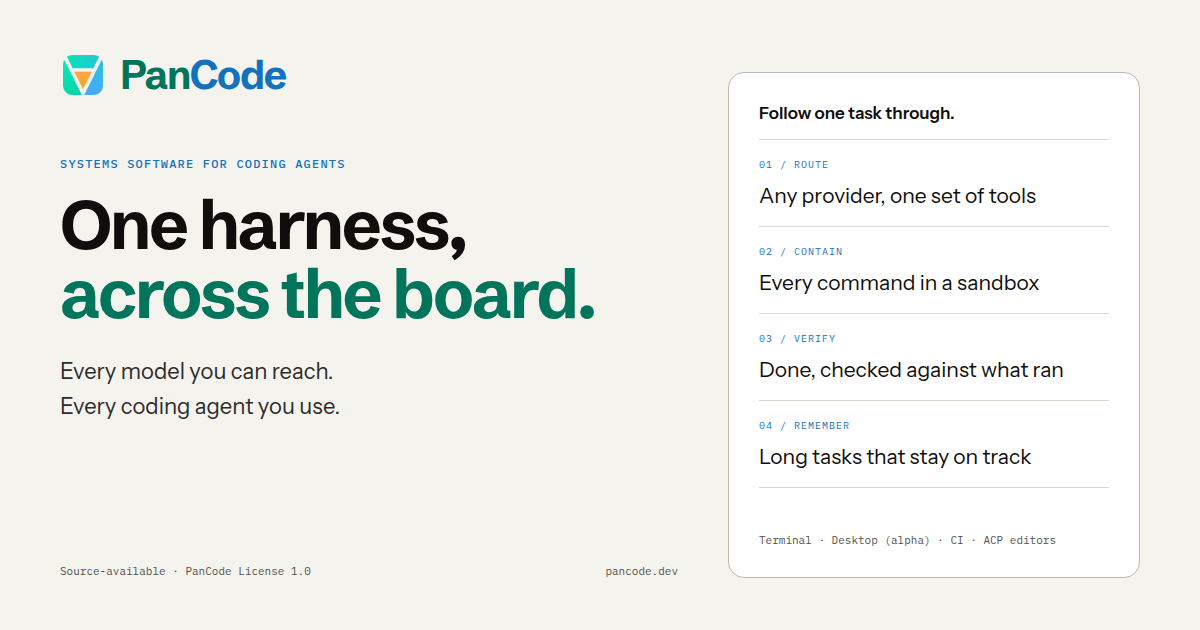
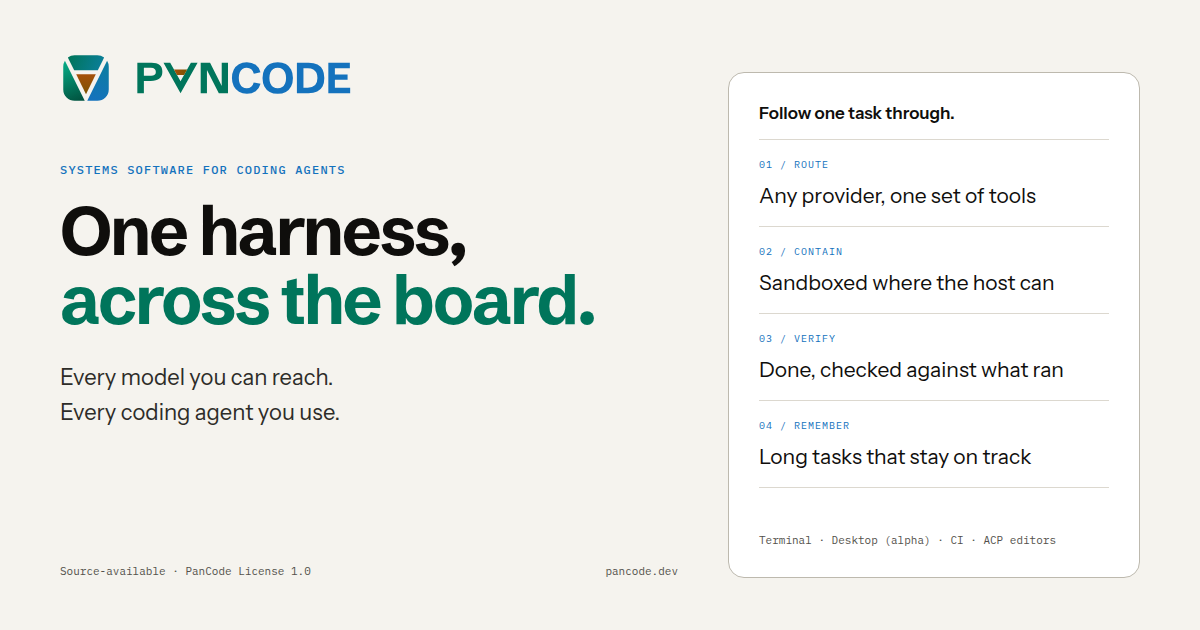
fix(site): grade the stones in drawings, put the display name on the cards and qualify the sandbox line
Review of the art package. Stones from 32 px in the schematic drawings and
the bar of the display name take the graded facets, through gradients
whose ids carry the drawing's file name; the 28 px lockup stays flat and
carries no id, so header and footer never collide. DESIGN.md states the
fill rule. The four social cards use the display name with the light cut
on paper, say commands are sandboxed where the host can, and their alt
text seeds describe the current card.

diff --git a/site/cards/square-light.html b/site/cards/square-light.html
@@ -1,3 +1,3 @@
 <!doctype html>
 <html lang="en" data-theme="light"><head><meta charset="utf-8"><meta name="robots" content="noindex"><title>PanCode social preview</title><link rel="stylesheet" href="../css/cards.css"></head>
-<body class="square"><main><div class="brand"><img src="../assets/brand/pancode-mark.webp" width="46" height="46" alt=""><span class="pan">Pan</span><span class="code">Code</span></div><p class="kicker">SYSTEMS SOFTWARE FOR CODING AGENTS</p><h1>One harness,<br><em>across the board.</em></h1><p class="promise">Every model you can reach.<br>Every coding agent you use.</p><footer><span>Source-available · PanCode License 1.0</span><span>pancode.dev</span></footer></main><aside aria-label="What PanCode does"><header>Follow one task through.</header><ol><li><small>01 / ROUTE</small>Any provider, one set of tools</li><li><small>02 / CONTAIN</small>Every command in a sandbox</li><li><small>03 / VERIFY</small>Done, checked against what ran</li><li><small>04 / REMEMBER</small>Long tasks that stay on track</li></ol><p>Terminal · Desktop (alpha) · CI · ACP editors</p></aside></body></html>
+<body class="square"><main><div class="brand"><img class="mark" src="../../assets/brand/pancode-mark-light.svg" width="52" height="52" alt=""><img class="name" src="../../assets/brand/pancode-display-light.svg" width="230" height="42" alt="PanCode"></div><p class="kicker">SYSTEMS SOFTWARE FOR CODING AGENTS</p><h1>One harness,<br><em>across the board.</em></h1><p class="promise">Every model you can reach.<br>Every coding agent you use.</p><footer><span>Source-available · PanCode License 1.0</span><span>pancode.dev</span></footer></main><aside aria-label="What PanCode does"><header>Follow one task through.</header><ol><li><small>01 / ROUTE</small>Any provider, one set of tools</li><li><small>02 / CONTAIN</small>Sandboxed where the host can</li><li><small>03 / VERIFY</small>Done, checked against what ran</li><li><small>04 / REMEMBER</small>Long tasks that stay on track</li></ol><p>Terminal · Desktop (alpha) · CI · ACP editors</p></aside></body></html>

diff --git a/site/cards/link-light.html b/site/cards/link-light.html
@@ -1,3 +1,3 @@
 <!doctype html>
 <html lang="en" data-theme="light"><head><meta charset="utf-8"><meta name="robots" content="noindex"><title>PanCode social preview</title><link rel="stylesheet" href="../css/cards.css"></head>
-<body class="link"><main><div class="brand"><img src="../assets/brand/pancode-mark.webp" width="46" height="46" alt=""><span class="pan">Pan</span><span class="code">Code</span></div><p class="kicker">SYSTEMS SOFTWARE FOR CODING AGENTS</p><h1>One harness,<br><em>across the board.</em></h1><p class="promise">Every model you can reach.<br>Every coding agent you use.</p><footer><span>Source-available · PanCode License 1.0</span><span>pancode.dev</span></footer></main><aside aria-label="What PanCode does"><header>Follow one task through.</header><ol><li><small>01 / ROUTE</small>Any provider, one set of tools</li><li><small>02 / CONTAIN</small>Every command in a sandbox</li><li><small>03 / VERIFY</small>Done, checked against what ran</li><li><small>04 / REMEMBER</small>Long tasks that stay on track</li></ol><p>Terminal · Desktop (alpha) · CI · ACP editors</p></aside></body></html>
+<body class="link"><main><div class="brand"><img class="mark" src="../../assets/brand/pancode-mark-light.svg" width="52" height="52" alt=""><img class="name" src="../../assets/brand/pancode-display-light.svg" width="230" height="42" alt="PanCode"></div><p class="kicker">SYSTEMS SOFTWARE FOR CODING AGENTS</p><h1>One harness,<br><em>across the board.</em></h1><p class="promise">Every model you can reach.<br>Every coding agent you use.</p><footer><span>Source-available · PanCode License 1.0</span><span>pancode.dev</span></footer></main><aside aria-label="What PanCode does"><header>Follow one task through.</header><ol><li><small>01 / ROUTE</small>Any provider, one set of tools</li><li><small>02 / CONTAIN</small>Sandboxed where the host can</li><li><small>03 / VERIFY</small>Done, checked against what ran</li><li><small>04 / REMEMBER</small>Long tasks that stay on track</li></ol><p>Terminal · Desktop (alpha) · CI · ACP editors</p></aside></body></html>

diff --git a/site/cards/square.html b/site/cards/square.html
@@ -1,3 +1,3 @@
 <!doctype html>
 <html lang="en" data-theme="dark"><head><meta charset="utf-8"><meta name="robots" content="noindex"><title>PanCode social preview</title><link rel="stylesheet" href="../css/cards.css"></head>
-<body class="square"><main><div class="brand"><img src="../assets/brand/pancode-mark.webp" width="46" height="46" alt=""><span class="pan">Pan</span><span class="code">Code</span></div><p class="kicker">SYSTEMS SOFTWARE FOR CODING AGENTS</p><h1>One harness,<br><em>across the board.</em></h1><p class="promise">Every model you can reach.<br>Every coding agent you use.</p><footer><span>Source-available · PanCode License 1.0</span><span>pancode.dev</span></footer></main><aside aria-label="What PanCode does"><header>Follow one task through.</header><ol><li><small>01 / ROUTE</small>Any provider, one set of tools</li><li><small>02 / CONTAIN</small>Every command in a sandbox</li><li><small>03 / VERIFY</small>Done, checked against what ran</li><li><small>04 / REMEMBER</small>Long tasks that stay on track</li></ol><p>Terminal · Desktop (alpha) · CI · ACP editors</p></aside></body></html>
+<body class="square"><main><div class="brand"><img class="mark" src="../../assets/brand/pancode-mark.svg" width="52" height="52" alt=""><img class="name" src="../../assets/brand/pancode-display.svg" width="230" height="42" alt="PanCode"></div><p class="kicker">SYSTEMS SOFTWARE FOR CODING AGENTS</p><h1>One harness,<br><em>across the board.</em></h1><p class="promise">Every model you can reach.<br>Every coding agent you use.</p><footer><span>Source-available · PanCode License 1.0</span><span>pancode.dev</span></footer></main><aside aria-label="What PanCode does"><header>Follow one task through.</header><ol><li><small>01 / ROUTE</small>Any provider, one set of tools</li><li><small>02 / CONTAIN</small>Sandboxed where the host can</li><li><small>03 / VERIFY</small>Done, checked against what ran</li><li><small>04 / REMEMBER</small>Long tasks that stay on track</li></ol><p>Terminal · Desktop (alpha) · CI · ACP editors</p></aside></body></html>

diff --git a/site/cards/link.html b/site/cards/link.html
@@ -1,3 +1,3 @@
 <!doctype html>
 <html lang="en" data-theme="dark"><head><meta charset="utf-8"><meta name="robots" content="noindex"><title>PanCode social preview</title><link rel="stylesheet" href="../css/cards.css"></head>
-<body class="link"><main><div class="brand"><img src="../assets/brand/pancode-mark.webp" width="46" height="46" alt=""><span class="pan">Pan</span><span class="code">Code</span></div><p class="kicker">SYSTEMS SOFTWARE FOR CODING AGENTS</p><h1>One harness,<br><em>across the board.</em></h1><p class="promise">Every model you can reach.<br>Every coding agent you use.</p><footer><span>Source-available · PanCode License 1.0</span><span>pancode.dev</span></footer></main><aside aria-label="What PanCode does"><header>Follow one task through.</header><ol><li><small>01 / ROUTE</small>Any provider, one set of tools</li><li><small>02 / CONTAIN</small>Every command in a sandbox</li><li><small>03 / VERIFY</small>Done, checked against what ran</li><li><small>04 / REMEMBER</small>Long tasks that stay on track</li></ol><p>Terminal · Desktop (alpha) · CI · ACP editors</p></aside></body></html>
+<body class="link"><main><div class="brand"><img class="mark" src="../../assets/brand/pancode-mark.svg" width="52" height="52" alt=""><img class="name" src="../../assets/brand/pancode-display.svg" width="230" height="42" alt="PanCode"></div><p class="kicker">SYSTEMS SOFTWARE FOR CODING AGENTS</p><h1>One harness,<br><em>across the board.</em></h1><p class="promise">Every model you can reach.<br>Every coding agent you use.</p><footer><span>Source-available · PanCode License 1.0</span><span>pancode.dev</span></footer></main><aside aria-label="What PanCode does"><header>Follow one task through.</header><ol><li><small>01 / ROUTE</small>Any provider, one set of tools</li><li><small>02 / CONTAIN</small>Sandboxed where the host can</li><li><small>03 / VERIFY</small>Done, checked against what ran</li><li><small>04 / REMEMBER</small>Long tasks that stay on track</li></ol><p>Terminal · Desktop (alpha) · CI · ACP editors</p></aside></body></html>

diff --git a/site/css/art.css b/site/css/art.css
@@ -1,6 +1,8 @@
 /* SPDX-License-Identifier: LicenseRef-PanCode-1.0 */
 /* SPDX-FileCopyrightText: 2026 Anthony Kougkas */
-/* The mark at interface sizes: the full cut of assets/brand/pancode-mark.svg in flat colour. */
+/* Below 32 px the mark is flat: mark.svg is the full cut in flat colour for the 28 px lockup. From 32 px the
+   stone inside a drawing is graded through gradients whose ids start with the drawing's file name, so two
+   drawings on one page never share an id. mark.svg carries no id and may be inlined any number of times. */
 .mark-left,
 .mark-top {
 	fill: var(--pancode-green400);
@@ -20,6 +22,49 @@ html[data-theme="light"] .mark-right {
 }
 html[data-theme="light"] .mark-point {
 	fill: var(--pancode-orange700);
+}
+.mark-stop-left-a {
+	stop-color: var(--pancode-green300);
+}
+.mark-stop-left-b {
+	stop-color: var(--pancode-green500);
+}
+.mark-stop-top-a {
+	stop-color: var(--pancode-green400);
+}
+.mark-stop-top-b,
+.mark-stop-right-a {
+	stop-color: var(--pancode-teal400);
+}
+.mark-stop-right-b {
+	stop-color: var(--pancode-azure400);
+}
+.mark-stop-point-a {
+	stop-color: var(--pancode-orange400);
+}
+.mark-stop-point-b {
+	stop-color: var(--pancode-amber300);
+}
+html[data-theme="light"] .mark-stop-left-a {
+	stop-color: var(--pancode-green600);
+}
+html[data-theme="light"] .mark-stop-left-b {
+	stop-color: var(--pancode-green800);
+}
+html[data-theme="light"] .mark-stop-top-a {
+	stop-color: var(--pancode-green700);
+}
+html[data-theme="light"] :is(.mark-stop-top-b, .mark-stop-right-a) {
+	stop-color: var(--pancode-teal700);
+}
+html[data-theme="light"] .mark-stop-right-b {
+	stop-color: var(--pancode-azure600);
+}
+html[data-theme="light"] .mark-stop-point-a {
+	stop-color: var(--pancode-orange700);
+}
+html[data-theme="light"] .mark-stop-point-b {
+	stop-color: var(--pancode-amber700);
 }
 /* The PAN field: routes from the mark to named models, agents and surfaces. A container sets
    data-pan="pending" before the drawing is seen and "live" while it is in view. */

diff --git a/site/css/cards.css b/site/css/cards.css
@@ -29,18 +29,8 @@ main {
 	align-items: center;
 	min-height: 46px;
 }
-.brand img {
-	margin-right: 14px;
-}
-:where(.brand) span {
-	font: 700 40px / 1 var(--font-display);
-	letter-spacing: -0.04em;
-}
-.brand .pan {
-	color: var(--accent);
-}
-.brand .code {
-	color: var(--secondary);
+.brand .mark {
+	margin-right: 16px;
 }
 .kicker {
 	color: var(--secondary);

diff --git a/site/DESIGN.md b/site/DESIGN.md
@@ -15,6 +15,7 @@ The mark is a stone of four facets, and the channel between them is the for-all 
 - The left facet runs `green300` to `green500`, the top `green400` to `teal400`, the right `teal400` to `azure400`, and the point `orange400` to `amber300`. Green leads, the azure of the name closes the right side, and the point is the one warm note. Never recolour, outline, rotate, skew or add effects to the artwork.
 - `pancode-mark-small.svg` is the cut for 16 to 24 px: flat `green400`, `green400`, `teal400` and `orange400`, with the channel widened to 7.2 units. The favicon and the 16 px icon use it. Minimum size is 16 px.
 - `pancode-mark-light.svg` is the cut for light grounds, in the 600 to 800 steps of the same ramps.
+- Fill follows size: below 32 px the mark is flat (the small cut to 24 px, the full cut in flat colour from 25 to 31 px, as in the 28 px header lockup), and from 32 px it is graded. An inline drawing that carries gradients prefixes their ids with its file name and is named once per page; `site/art/mark.svg` carries none.
 - The stone is its own container and has no tile. On black and on paper it stands directly on the ground. App icons set it at 80% on a black ground. Clear space is a quarter of the mark's width on every side.
 - Single-colour contexts (`assets/acp-registry/icon.svg`) draw the four facets of the small cut in the current colour.
 - In the terminal the mark is three cells, `▐∀▌`: the sign in the on-accent ink on a brand green tile, and `[V]` in ASCII mode. Where one cell is all there is, it is `∀` (U+2200) in the brand green.
